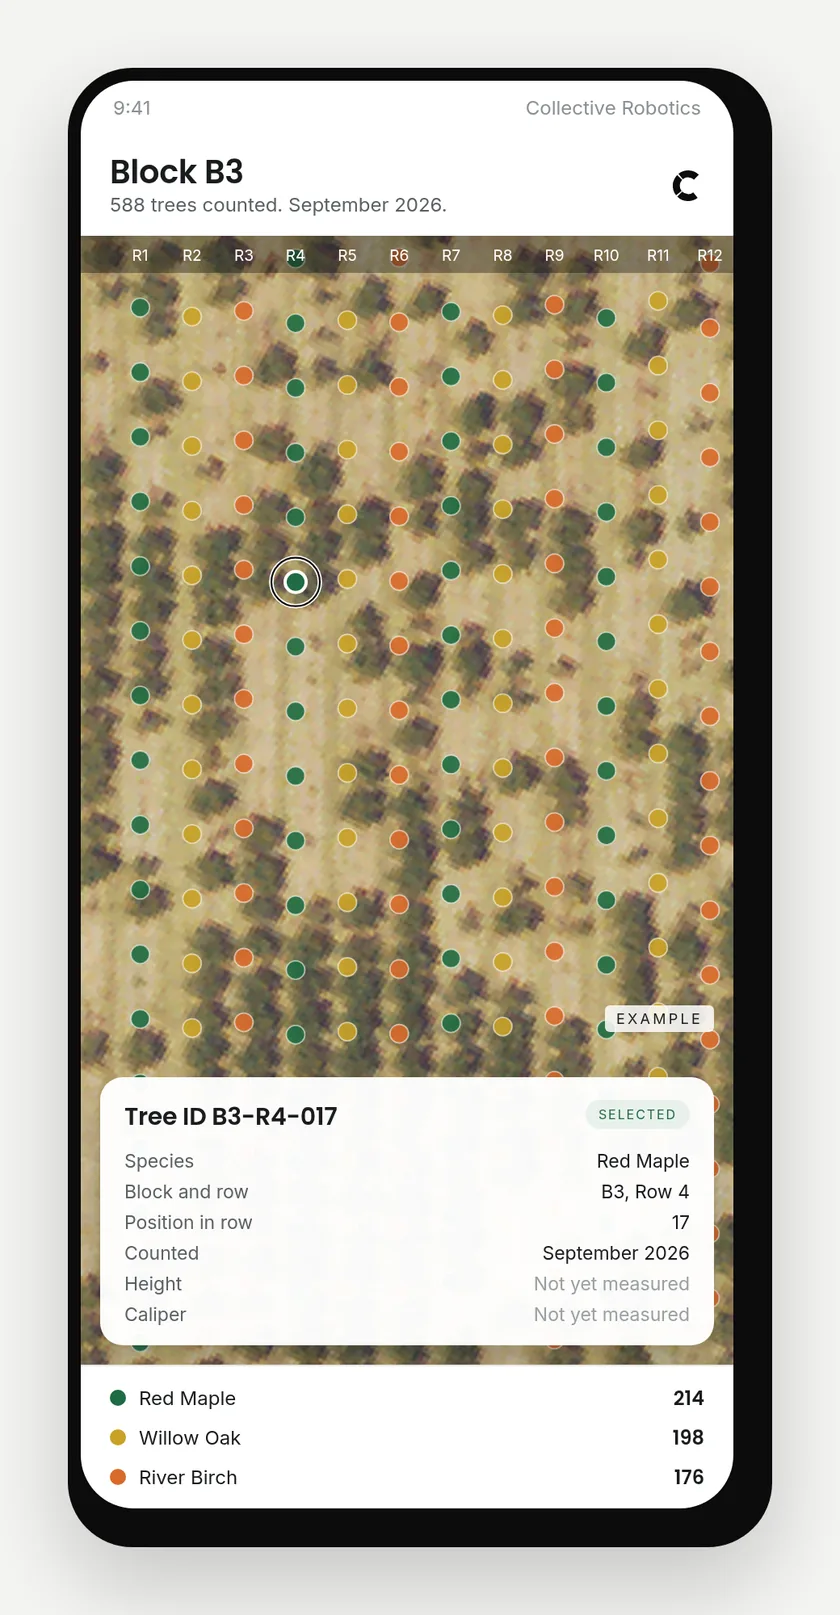
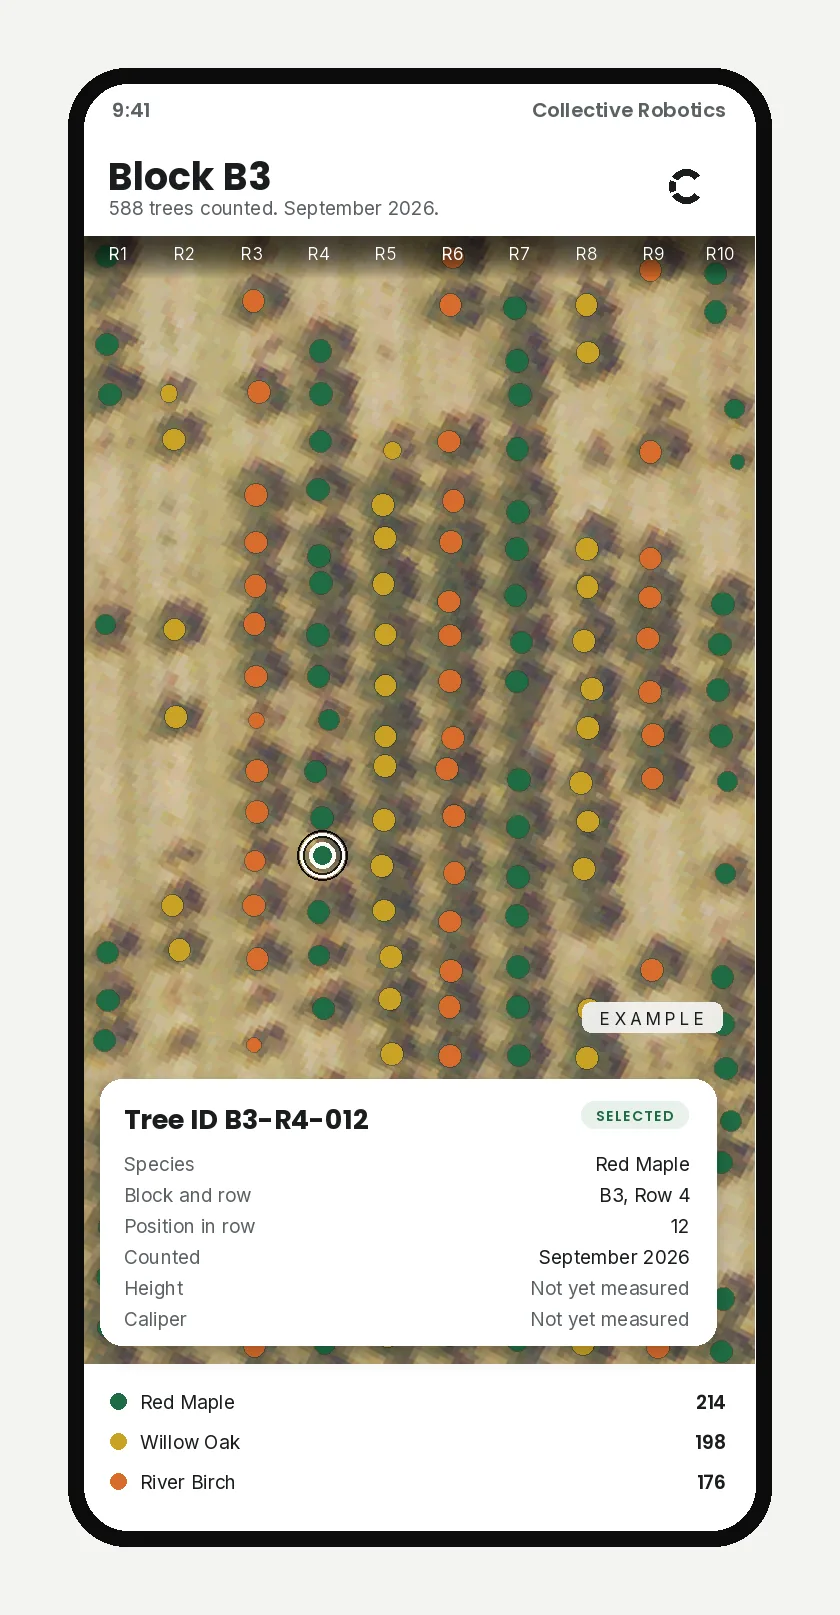
Put the map dots on real tree crowns
The example map used a regular grid of dots over a heavily zoomed NAIP
window, so the dots did not sit on trees. Refetch a 180 m tile at 0.15 m
per pixel, rotate it 27.5 degrees so the rows run vertically, and crop a
60 m by 101 m window where individual crowns are visible.

Detect the crowns from the pixels: excess green combined with luminance,
threshold to a vegetation mask, fit row spacing and phase from the column
profile, find peaks along each row band, refine to a weighted centroid,
and reject anything that is not vegetation. 169 trees, ten rows, one
circle each sized to the crown.

Everything else in the mockup is unchanged. README records the exact
NAIP request URL and the detection steps.

Claude-Session: https://claude.ai/code/session_01FtKBLz3V3ZCgNa9wiGSzrA

diff --git a/README.md b/README.md
@@ -46,25 +46,50 @@ One placeholder plate remains, in "Who is behind this": a candid portrait of Luc
 
 ### The tree record example image
 
-`img/map-example.webp` is built, not photographed. The base layer is real aerial imagery from the
-USDA NAIP program, which is public domain, pulled from the USGS NAIP Plus ImageServer:
+`img/map-example.webp` is built, not photographed, by
+`scripts/make_map_example.py` in the olaf-assistant repo. The base layer is real aerial imagery
+from the USDA NAIP program, which is public domain, pulled from the USGS NAIP Plus ImageServer.
+This is the exact request:
 
 ```
 https://imagery.nationalmap.gov/arcgis/rest/services/USGSNAIPPlus/ImageServer/exportImage
-  ?bbox=-84.10790,32.89430,-84.10510,32.89660&bboxSR=4326&imageSR=4326
-  &size=870,852&format=png&f=image
+  ?bbox=-84.10763,32.89426,-84.10570,32.89589&bboxSR=4326&imageSR=4326
+  &size=1200,1200&format=png&f=image
 ```
 
 That is a field grown block in middle Georgia, cropped tightly to rows so that no building, road,
 sign, or boundary that could identify a business is in frame. The service reports a native ground
-sample of 0.3 m. The tile was rotated so the rows run vertically, then a window was cropped and
-scaled up about three times, so the base is soft. That is the real limit of public aerial imagery
-at phone zoom.
+sample of 0.3 m. The bounding box is about 180 m on a side and the request asks for 1200 by 1200,
+so the tile comes back at about 0.15 m per pixel, twice native.
 
-Over that base sit the species colored circles, one per tree, placed on rows and tree positions
-detected from the imagery itself, the row labels, the selected tree ring, the record card, and the
-legend. Every number in it is an example and the image is stamped "Example". No Google, Bing,
-Apple, or Mapbox imagery is used anywhere.
+The tile is rotated 27.5 degrees so the planting rows run vertically. That angle is not guessed,
+it is the angle that maximises the variance of the column profile of the vegetation index. A
+400 by 672 pixel window is then cropped out of the rotated tile, which is about 60 m by 101 m of
+ground, small enough that individual crowns are visible and the view is scaled up only 1.7 times.
+
+Crowns are detected from the pixels, not drawn on a grid:
+
+1. Excess green, `2G - R - B` on chromaticity coordinates, is combined with luminance, since the
+   crowns in this scene are both greener and much darker than the bare row middles.
+2. That index is thresholded to a vegetation mask.
+3. Row spacing and phase come from a single frequency fit to the column profile of the index.
+   The fit gives ten rows about 6.0 m apart, which matches the block.
+4. Inside each row band the profile along the row is scanned for local maxima, which are the
+   individual crowns.
+5. Each maximum is refined to an intensity weighted centroid and kept only if the pixels around
+   that centroid are vegetation, so gaps and skips in a row get no dot.
+6. The circle radius comes from the masked area around the centroid, so a bigger crown gets a
+   bigger dot.
+
+That gives 169 trees, ten rows, between ten and twenty two trees a row. Over that base sit the
+species colored circles, the row labels, the selected tree ring, the record card, and the legend.
+Species are assigned by row. Every number in it is an example and the image is stamped "Example".
+No Google, Bing, Apple, or Mapbox imagery is used anywhere.
+
+To rebuild it, run `python3 scripts/make_map_example.py` from the olaf-assistant repo root. It
+caches the NAIP tile under `/tmp/naip-cache` and also writes `map-debug.png` there, a version of
+the crop with an open circle on every detection, which is the thing to look at before shipping a
+change to the detection.
 
 The attribution line "Aerial imagery: USDA NAIP (public domain)" sits under the image on the page
 and must stay with it.
